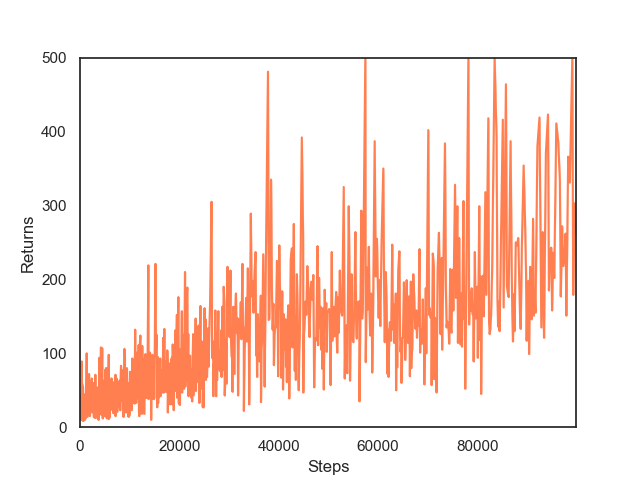
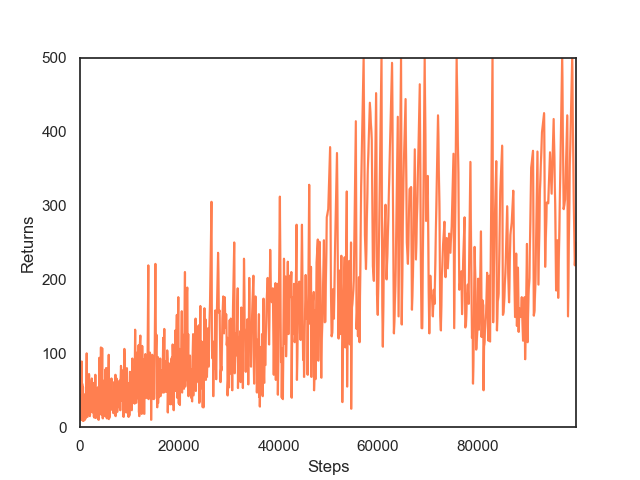
Correct GMMIL

diff --git a/models.py b/models.py
@@ -9,18 +9,16 @@ def _join_state_action(state, action, action_size):
   return torch.cat([state, F.one_hot(action, action_size).to(dtype=torch.float32)], dim=1)
 
 
-# Computes the scaled squared distance between two sets of vectors
-def _squared_distance(X, Y, lengthscale=1):
-  X, Y = X / lengthscale, Y / lengthscale
-  XX = X.pow(2).sum(1, keepdim=True)
-  YY = Y.pow(2).sum(1, keepdim=True)
-  XY = X @ Y.t()
-  return torch.clamp(XX - 2 * XY + YY.t(), min=0)
+# Computes the squared distance between two sets of vectors
+def _squared_distance(x, y):
+  n_1, n_2, d = x.size(0), y.size(0), x.size(1)
+  tiled_x, tiled_y = x.view(n_1, 1, d).expand(n_1, n_2, d), y.view(1, n_2, d).expand(n_1, n_2, d)
+  return (tiled_x - tiled_y).pow(2).mean(dim=2)
 
 
 # Gaussian/radial basis function/exponentiated quadratic kernel
-def _gaussian_kernel(distances, gamma=1):
-  return torch.exp(-gamma * distances)
+def _gaussian_kernel(x, y, gamma=1):
+  return torch.exp(-gamma * _squared_distance(x, y))
 
 
 class Actor(nn.Module):
@@ -89,9 +87,8 @@ class GMMILDiscriminator(nn.Module):
       self.gamma_1 = 1 / _squared_distance(state_action, expert_state_action).median().item()
       self.gamma_2 = 1 / _squared_distance(expert_state_action, expert_state_action).median().item()
 
-    # Return sum of maximum mean discrepancies
-    distances = _squared_distance(state_action, expert_state_action)
-    return _gaussian_kernel(distances, gamma=self.gamma_1).mean(dim=1) + _gaussian_kernel(distances, gamma=self.gamma_2).mean(dim=1)
+    # Calculate negative of witness function (based on kernel mean embeddings)
+    return (_gaussian_kernel(expert_state_action, state_action, gamma=self.gamma_1).mean(dim=0) + _gaussian_kernel(expert_state_action, state_action, gamma=self.gamma_2).mean(dim=0)) # - (_gaussian_kernel(state_action, state_action, gamma=self.gamma_1).mean(dim=0) + _gaussian_kernel(state_action, state_action, gamma=self.gamma_2).mean(dim=0))  TODO: GMMIL seems to fail with the self-similarity terms (commented out)? 
 
 
 class AIRLDiscriminator(nn.Module):

diff --git a/utils.py b/utils.py
@@ -18,7 +18,7 @@ def flatten_list_dicts(list_dicts):
 def lineplot(x, y, filename, xaxis='Steps', yaxis='Returns'):
   y = np.array(y)
   y_mean, y_std = y.mean(axis=1), y.std(axis=1)
-  sns.lineplot(x, y_mean, color='coral')
+  sns.lineplot(x=x, y=y_mean, color='coral')
   plt.fill_between(x, y_mean - y_std, y_mean + y_std, color='coral', alpha=0.3)
   plt.xlim(left=0, right=x[-1])
   plt.ylim(bottom=0, top=500)  # Return limits for CartPole-v1
